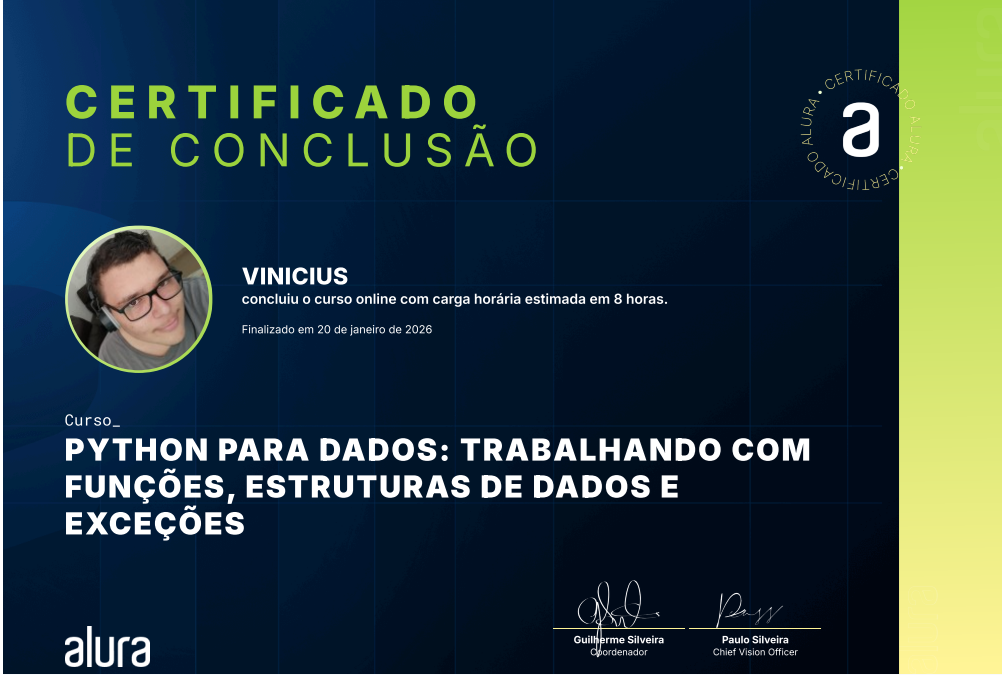
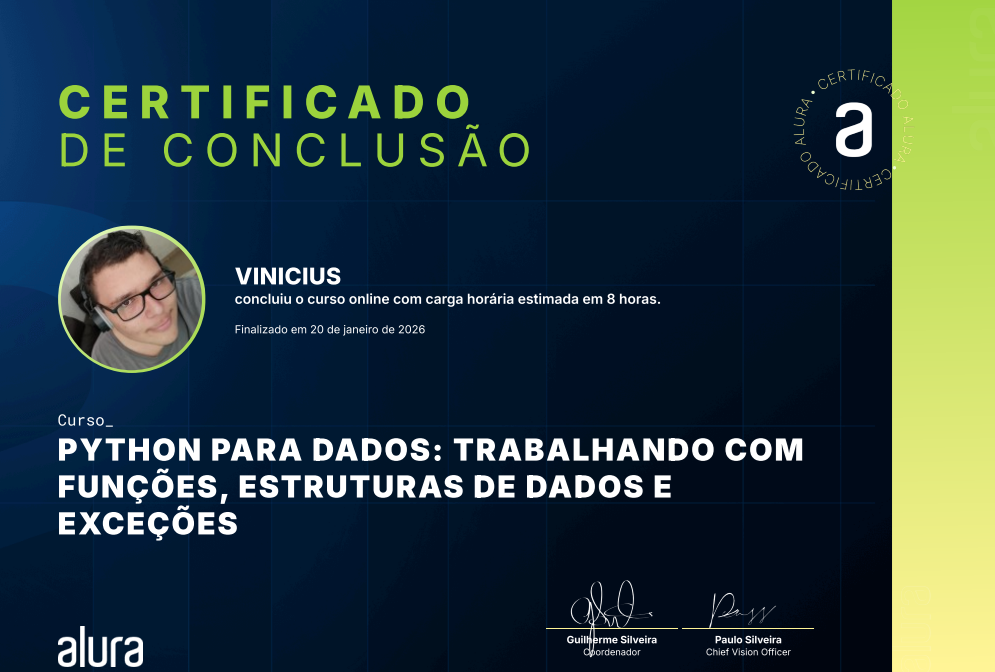
melhorando certificados

diff --git a/assets/css/style.css b/assets/css/style.css
@@ -321,6 +321,7 @@ section {
 
 .certificados-item {
   margin-bottom: 30px;
+  
 }
 
 .certificados-img {
@@ -328,11 +329,14 @@ section {
   height: 200px;
   object-fit: cover;
   transition: 0.3s;
-  box-shadow: 0 4px 12px rgba(0,0,0,0.15);
+  border: 4px solid #e0e0e0;
+  border-radius: 10px;
+  box-shadow: 0 6px 18px rgba(0,0,0,0.15);
 }
 
 .certificados-img:hover {
-  transform: scale(1.03);
+  transform: translateY(-5px) scale(1.03);
+  box-shadow: 0 10px 28px rgba(0,0,0,0.25);
 }
 /* ==================================================
    Footer
